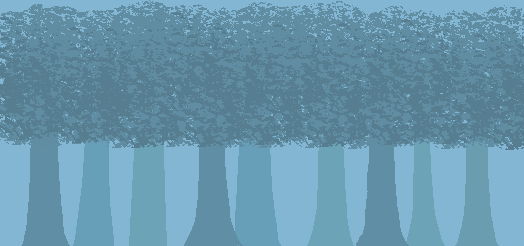
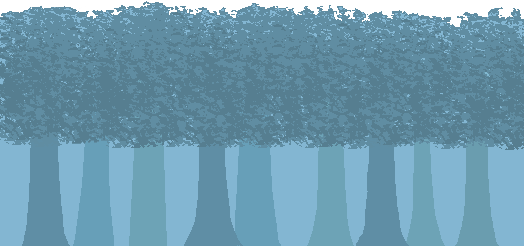
feat: updated parallax background

Changed region(s): [[0.0, 0.0, 1.0, 0.1138]]

diff --git a/System/SceneManager.js b/System/SceneManager.js
@@ -25,10 +25,14 @@ export class SceneManager {
     }
 
     loadLevel() {
-        this.game.addEntity(new ParallaxLayer(this.game, "./Assets/Background/5-SkyBackground.png", .1, -1500, 11));
-        this.game.addEntity(new ParallaxLayer(this.game, "./Assets/Background/4-TreesBackground.png", 0.1, 100, 4));
+        this.game.addEntity(new ParallaxLayer(this.game, "./Assets/Background/5-SkyBackground.png", .1, -3700, 13));
+
+        this.game.addEntity(new ParallaxLayer(this.game, "./Assets/IntroBackground/5.png", 0.1, -1300, 12));
+        this.game.addEntity(new ParallaxLayer(this.game, "./Assets/IntroBackground/6.png", 0.1, -1000, 12));
+        this.game.addEntity(new ParallaxLayer(this.game, "./Assets/IntroBackground/7.png", 0.1, -500, 12));
+        this.game.addEntity(new ParallaxLayer(this.game, "./Assets/Background/4-TreesBackground.png", 0.1, 300, 4));
         this.game.addEntity(new ParallaxLayer(this.game, "./Assets/Background/3-Trees.png", 0.3, 0, 5));
-        this.game.addEntity(new ParallaxLayer(this.game, "./Assets/Background/2-Trees.png", 0.5, 400, 2));
+        this.game.addEntity(new ParallaxLayer(this.game, "./Assets/Background/2-Trees.png", 0.5, -900, 6));
         this.game.addEntity(new ParallaxLayer(this.game, "./Assets/Background/1-Trees.png", 0.7, -25 , 4));
 
         this.game.addEntity(new HeartItem(this.game));

diff --git a/main.js b/main.js
@@ -89,6 +89,16 @@ for (let i = 1; i <= 6; i++) {
     ASSET_MANAGER.queueDownload(`./Assets/Otter/Sleep/otter_sleep_${i}.png`);
 }
 
+// Intro background
+for (let i = 1; i <= 8; i++) {
+    ASSET_MANAGER.queueDownload(`./Assets/IntroBackground/${i}.png`);
+}
+
+    ASSET_MANAGER.queueDownload(`./Assets/IntroBackground/Foreground.png`);
+
+
+
+
 /**
  * Method to handle every entity in the game.
  */
